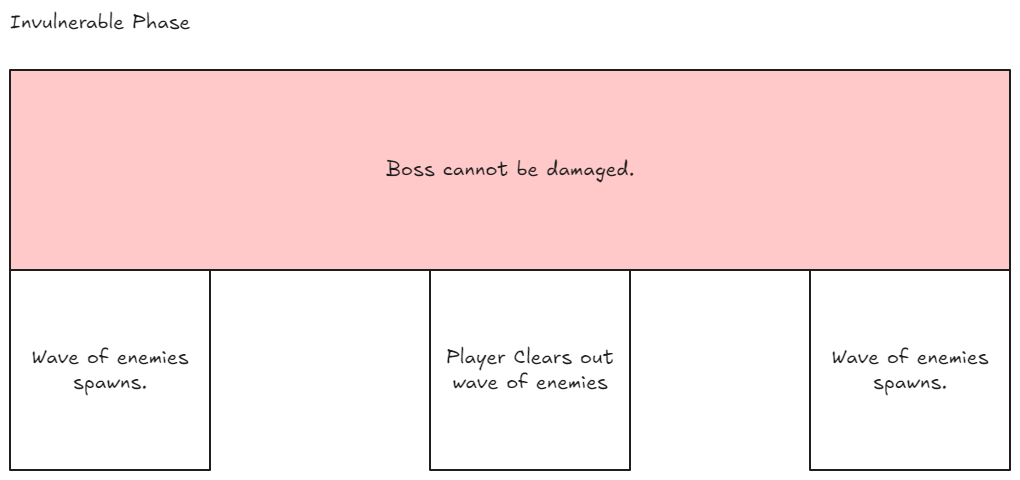
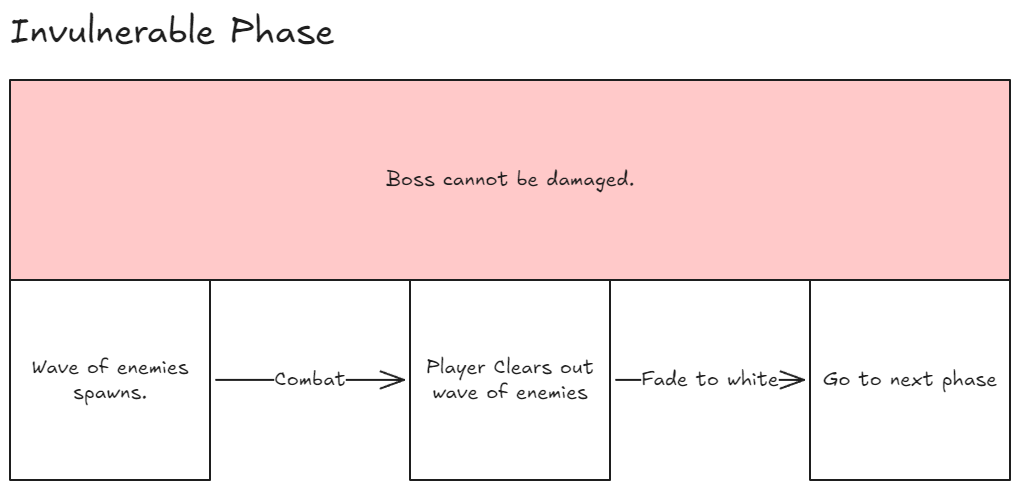
vault backup: 2026-06-24 12:19:04

diff --git a/Projects/Summer Project/Mechanics/Boss03/Boss03 Graph.md b/Projects/Summer Project/Mechanics/Boss03/Boss03 Graph.md
@@ -12,6 +12,7 @@ tags: [excalidraw]
 # Excalidraw Data
 
 ## Text Elements
+
 Invulnerable Phase ^6wRAwVwS
 
 Boss cannot be damaged. ^Q5SbGtbF
@@ -20,10 +21,16 @@ Wave of enemies spawns. ^HOEgBKYV
 
 Player Clears out wave of enemies ^sKe4k6EZ
 
-Wave of enemies spawns. ^Iu1ifxJd
+Go to next phase ^Iu1ifxJd
+
+Combat ^u9UtIjFs
+
+Fade towhite ^U1JmJdOw
 
 %%
+
 ## Drawing
+
 ```compressed-json
[1 lines of base64/hex data omitted]
 
@@ -39,30 +46,55 @@ oRSjqVEk7rRbG8QkchfOQJRuzc7wtsQAx5xMTcdKsdC6CfJxvzcUCVngl7H7kBwom4OJ37WlJ2K4tp8m
 
[1 lines of base64/hex data omitted]
 
[2 lines of base64/hex data omitted]
 
[2 lines of base64/hex data omitted]
 
[2 lines of base64/hex data omitted]
 
[2 lines of base64/hex data omitted]
 
[2 lines of base64/hex data omitted]
 
[2 lines of base64/hex data omitted]
 
[2 lines of base64/hex data omitted]
 
[2 lines of base64/hex data omitted]
 
[2 lines of base64/hex data omitted]
 
[2 lines of base64/hex data omitted]
 
[2 lines of base64/hex data omitted]
 
[2 lines of base64/hex data omitted]
 
-AdWTUYW2WtVsCYBYj5WiUcB+WNhJ5cDgDaLJEYgN5oDABjgjhAA=
[1 lines of base64/hex data omitted]
+
[1 lines of base64/hex data omitted]
+
[1 lines of base64/hex data omitted]
+
[1 lines of base64/hex data omitted]
+
[1 lines of base64/hex data omitted]
+
[1 lines of base64/hex data omitted]
+
[1 lines of base64/hex data omitted]
+
[1 lines of base64/hex data omitted]
+
[1 lines of base64/hex data omitted]
+
[1 lines of base64/hex data omitted]
+
[1 lines of base64/hex data omitted]
+
[1 lines of base64/hex data omitted]
+
[1 lines of base64/hex data omitted]
 ```
+
 %%

diff --git a/Projects/Summer Project/Mechanics/Boss03/Boss03.md b/Projects/Summer Project/Mechanics/Boss03/Boss03.md
@@ -2,4 +2,4 @@
 
 ## Invulnerable Phase
 
-## Vulnerable Phase
+## Damage Phase
